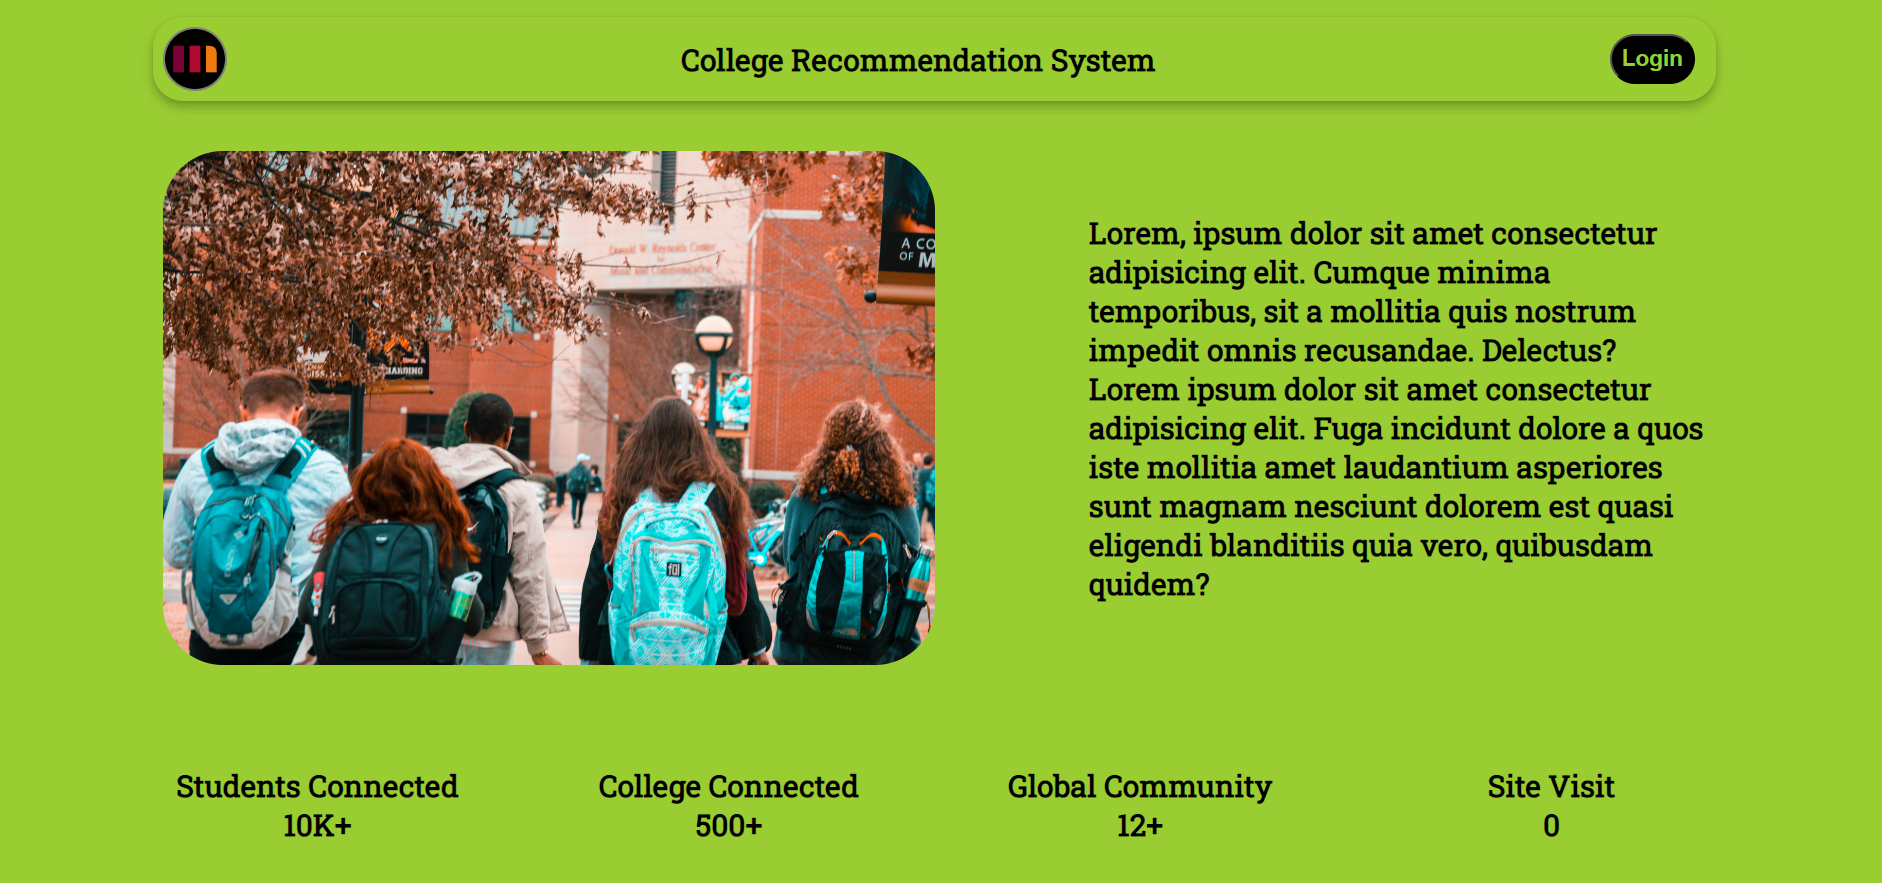
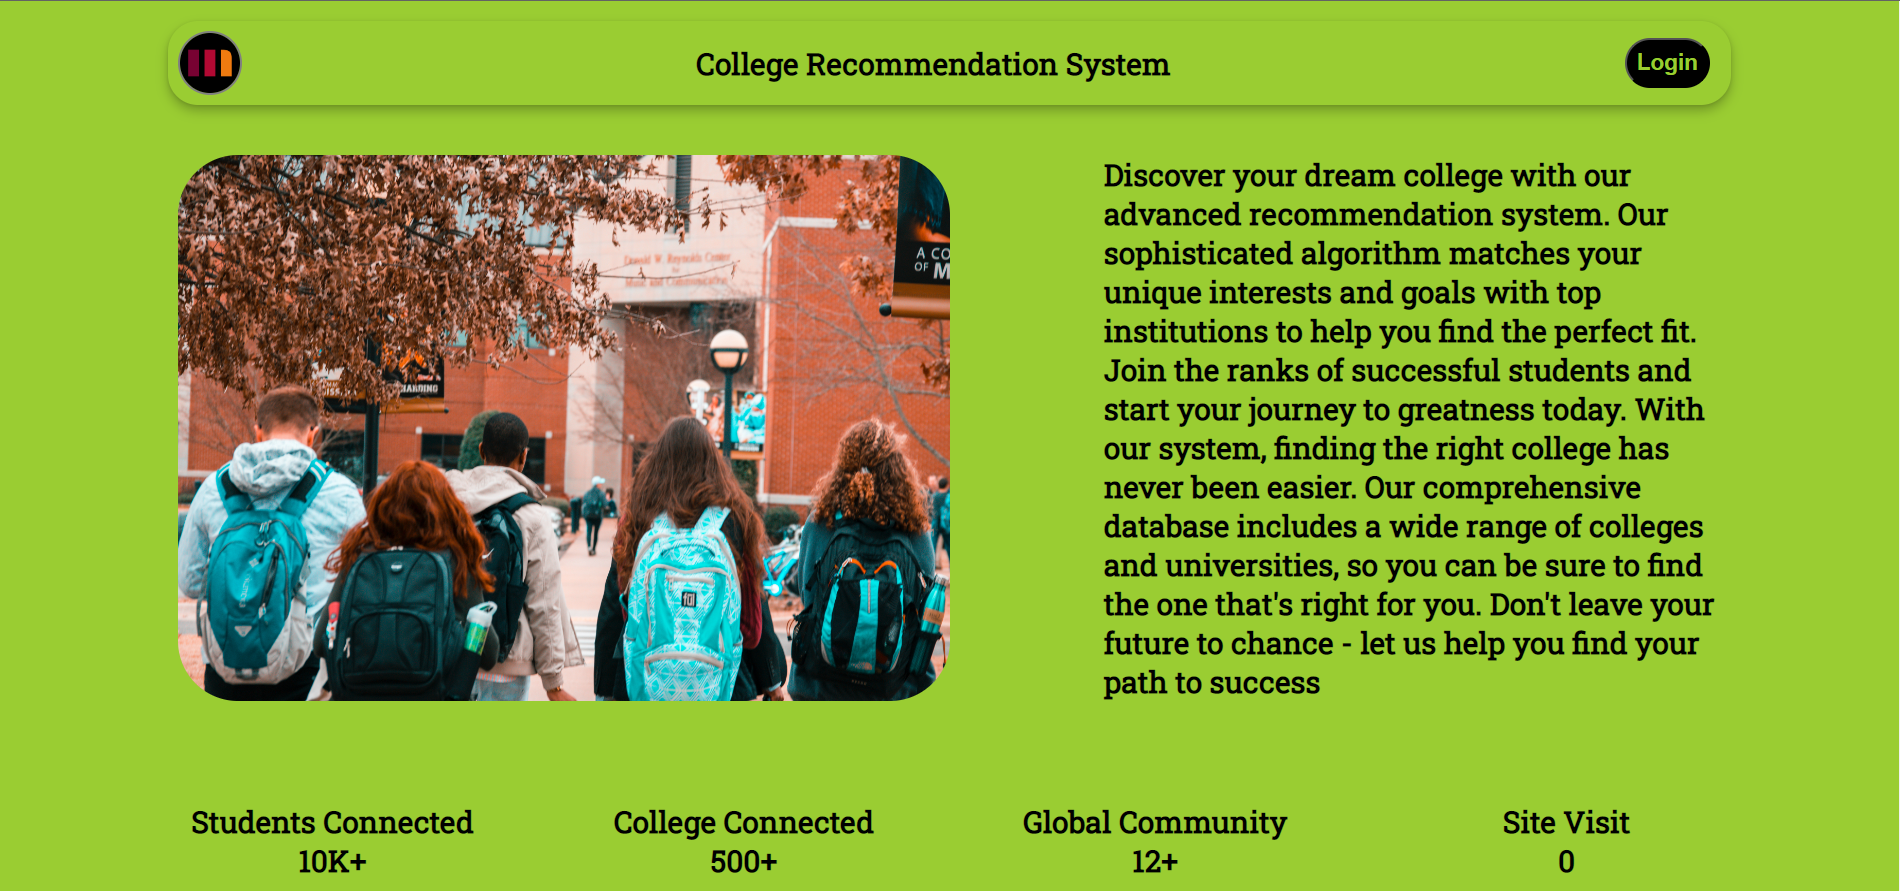
updated readme

diff --git a/src/components/Heroes.jsx b/src/components/Heroes.jsx
@@ -3,7 +3,7 @@ export default function Heroes() {
           <div className="heroes flex">
                <img src="heroes-left.jpg"  className="photo-left"/>
                <div className="text-right flex">
-                    <h2>Lorem, ipsum dolor sit amet consectetur adipisicing elit. Cumque minima temporibus, sit a mollitia quis nostrum impedit omnis recusandae. Delectus? Lorem ipsum dolor sit amet consectetur adipisicing elit. Fuga incidunt dolore a quos iste mollitia amet laudantium asperiores sunt magnam nesciunt dolorem est quasi eligendi blanditiis quia vero, quibusdam quidem?</h2>
+                    <h2>Discover your dream college with our advanced recommendation system. Our sophisticated algorithm matches your unique interests and goals with top institutions to help you find the perfect fit. Join the ranks of successful students and start your journey to greatness today. With our system, finding the right college has never been easier. Our comprehensive database includes a wide range of colleges and universities, so you can be sure to find the one that's right for you. Don't leave your future to chance - let us help you find your path to success</h2>
                </div>
           </div>
      )
